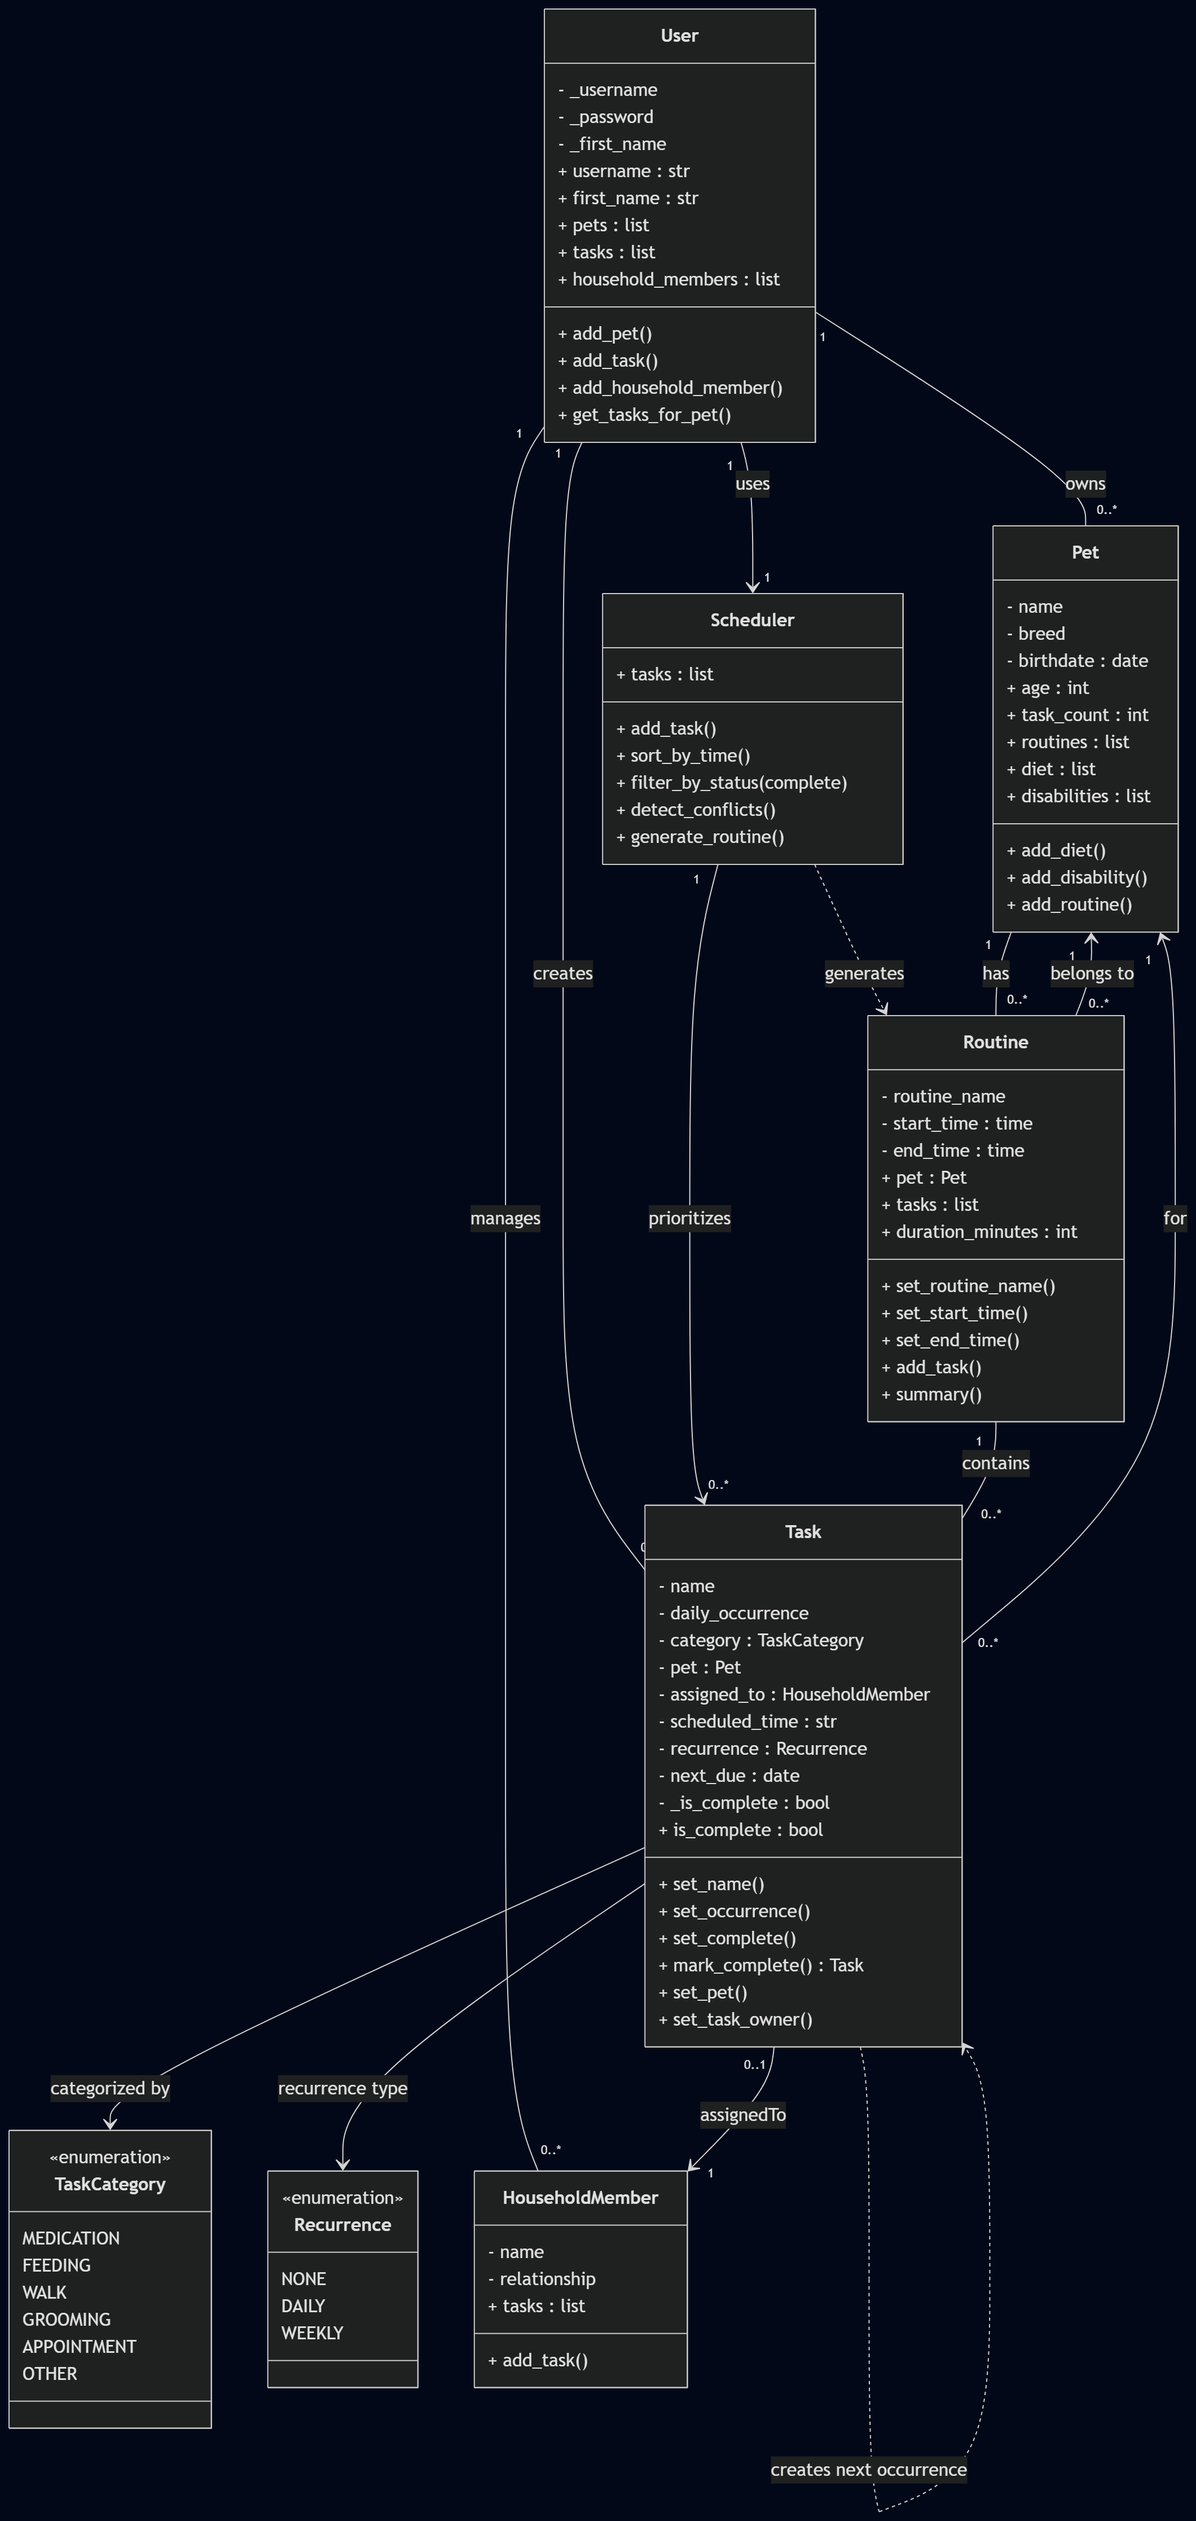
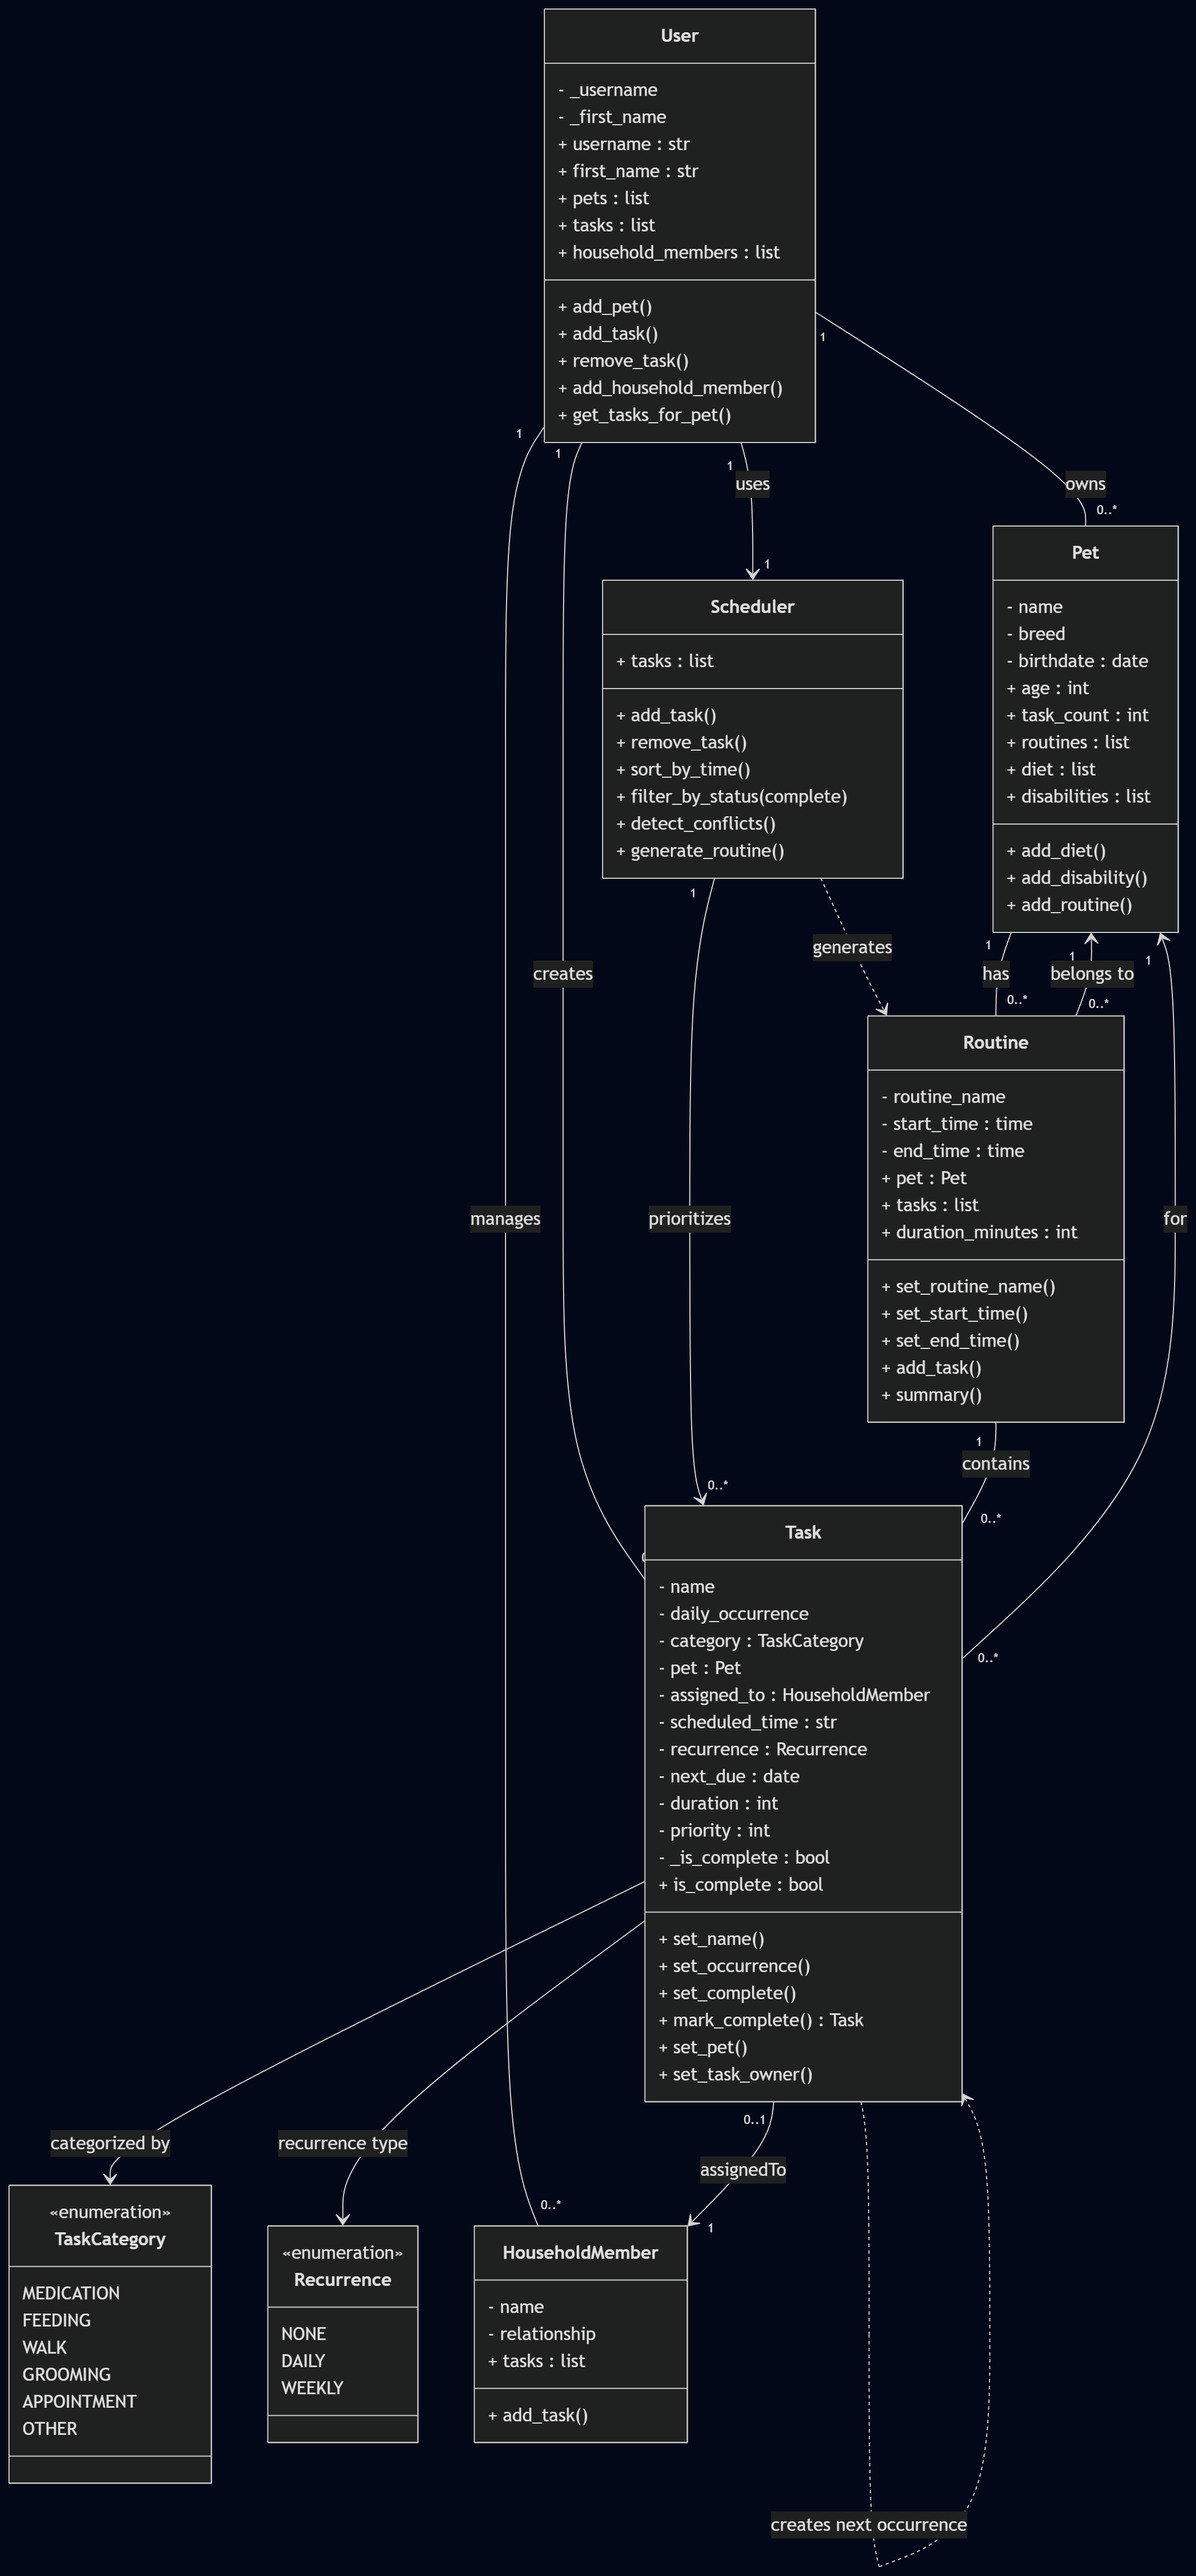
Updated uml diagram. Added demo images

diff --git a/app.py b/app.py
@@ -48,7 +48,7 @@ with st.form("owner_form"):
     username   = st.text_input("Username",   placeholder="e.g. jsmith")
     submitted  = st.form_submit_button("Create Profile")
     if submitted:
-        st.session_state.owner = User(username=username, password="", first_name=first_name)
+        st.session_state.owner = User(username=username, first_name=first_name)
         st.session_state.scheduler = Scheduler()
         st.success(f"Profile created for {first_name}.")
 
@@ -98,6 +98,8 @@ else:
         category       = st.selectbox("Category", [c.value for c in TaskCategory])
         recurrence     = st.selectbox("Recurrence", [r.value for r in Recurrence])
         scheduled_time = st.time_input("Scheduled time", value=time(8, 0))
+        duration       = st.number_input("Duration (minutes)", min_value=1, max_value=240, value=15)
+        priority       = st.number_input("Priority (1 = highest, 5 = lowest)", min_value=1, max_value=5, value=3)
         pet_names      = [p.name for p in st.session_state.owner.pets]
         selected_pet   = st.selectbox("For which pet?", pet_names)
         assignee_options = ["Owner"] + [m.name for m in st.session_state.members]
@@ -111,6 +113,8 @@ else:
                 category=TaskCategory(category),
                 recurrence=Recurrence(recurrence),
                 scheduled_time=scheduled_time.strftime("%H:%M"),
+                duration=duration,
+                priority=priority,
             )
             task.set_pet(pet, st.session_state.owner)
             if selected_assignee != "Owner":
@@ -118,6 +122,45 @@ else:
                 task.set_task_owner(member)
             st.session_state.scheduler.add_task(task)
             st.success(f"Task '{task_name}' added for {selected_pet}, assigned to {selected_assignee}.")
+
+# --- Edit a task ---
+st.subheader("Edit a Task")
+if st.session_state.owner is None or not st.session_state.owner.tasks:
+    st.info("Add a task first.")
+else:
+    task_names = [t.name for t in st.session_state.owner.tasks]
+    selected_task_name = st.selectbox("Select a task to edit", task_names, key="edit_select")
+    task_to_edit = next(t for t in st.session_state.owner.tasks if t.name == selected_task_name)
+
+    with st.form("edit_task_form"):
+        new_name       = st.text_input("Task name", value=task_to_edit.name)
+        new_occurrence = st.number_input("Times per day", min_value=1, max_value=10, value=task_to_edit.daily_occurrence)
+        new_category   = st.selectbox("Category", [c.value for c in TaskCategory], index=list(TaskCategory).index(task_to_edit.category))
+        new_recurrence = st.selectbox("Recurrence", [r.value for r in Recurrence], index=list(Recurrence).index(task_to_edit.recurrence))
+        new_duration   = st.number_input("Duration (minutes)", min_value=1, max_value=240, value=task_to_edit.duration)
+        new_priority   = st.number_input("Priority (1 = highest, 5 = lowest)", min_value=1, max_value=5, value=task_to_edit.priority)
+        submitted      = st.form_submit_button("Save Changes")
+        if submitted:
+            task_to_edit.set_name(new_name)
+            task_to_edit.set_occurrence(new_occurrence)
+            task_to_edit.category   = TaskCategory(new_category)
+            task_to_edit.recurrence = Recurrence(new_recurrence)
+            task_to_edit.duration   = new_duration
+            task_to_edit.priority   = new_priority
+            st.success(f"Task updated.")
+
+# --- Remove a task ---
+st.subheader("Remove a Task")
+if st.session_state.owner is None or not st.session_state.owner.tasks:
+    st.info("No tasks to remove.")
+else:
+    task_names = [t.name for t in st.session_state.owner.tasks]
+    selected_remove_name = st.selectbox("Select a task to remove", task_names, key="remove_select")
+    if st.button("Remove Task"):
+        task_to_remove = next(t for t in st.session_state.owner.tasks if t.name == selected_remove_name)
+        st.session_state.owner.remove_task(task_to_remove)
+        st.session_state.scheduler.remove_task(task_to_remove)
+        st.success(f"'{selected_remove_name}' removed.")
 
 st.divider()
 

diff --git a/main.py b/main.py
@@ -2,7 +2,7 @@ from datetime import date, time
 from pawpal_system import HouseholdMember, Pet, Task, TaskCategory, Recurrence, Scheduler, User
 
 # --- Setup ---
-owner = User(username="jsmith", password="secret", first_name="Jamie")
+owner = User(username="jsmith", first_name="Jamie")
 
 # --- Pets ---
 PETS_DATA = [
@@ -31,14 +31,14 @@ for member_info in MEMBERS_DATA:
 # Each entry: pet name, task name, daily_occurrence, category, assigned_to (member name or None)
 # Tasks are intentionally out of time order to verify sort_by_time() works correctly.
 TASKS_DATA = [
-    {"pet": "Luna",  "name": "Walk Luna",               "daily_occurrence": 1, "category": TaskCategory.WALK,       "assigned_to": "Alex", "scheduled_time": "17:30", "recurrence": Recurrence.DAILY},
-    {"pet": "Mochi", "name": "Brush Mochi",             "daily_occurrence": 1, "category": TaskCategory.GROOMING,   "assigned_to": "Alex", "scheduled_time": "19:00", "recurrence": Recurrence.WEEKLY},
-    {"pet": "Luna",  "name": "Feed Luna",               "daily_occurrence": 2, "category": TaskCategory.FEEDING,    "assigned_to": None,   "scheduled_time": "07:00", "recurrence": Recurrence.DAILY},
-    {"pet": "Mochi", "name": "Mochi's Eye Drops",       "daily_occurrence": 2, "category": TaskCategory.MEDICATION, "assigned_to": None,   "scheduled_time": "09:00", "recurrence": Recurrence.DAILY},
-    {"pet": "Mochi", "name": "Feed Mochi",              "daily_occurrence": 3, "category": TaskCategory.FEEDING,    "assigned_to": None,   "scheduled_time": "07:30", "recurrence": Recurrence.DAILY},
-    {"pet": "Luna",  "name": "Luna's Joint Supplement", "daily_occurrence": 1, "category": TaskCategory.MEDICATION, "assigned_to": None,   "scheduled_time": "08:00", "recurrence": Recurrence.NONE},
+    {"pet": "Luna",  "name": "Walk Luna",               "daily_occurrence": 1, "category": TaskCategory.WALK,       "assigned_to": "Alex", "scheduled_time": "17:30", "recurrence": Recurrence.DAILY,  "duration": 30, "priority": 2},
+    {"pet": "Mochi", "name": "Brush Mochi",             "daily_occurrence": 1, "category": TaskCategory.GROOMING,   "assigned_to": "Alex", "scheduled_time": "19:00", "recurrence": Recurrence.WEEKLY, "duration": 20, "priority": 4},
+    {"pet": "Luna",  "name": "Feed Luna",               "daily_occurrence": 2, "category": TaskCategory.FEEDING,    "assigned_to": None,   "scheduled_time": "07:00", "recurrence": Recurrence.DAILY,  "duration": 10, "priority": 2},
+    {"pet": "Mochi", "name": "Mochi's Eye Drops",       "daily_occurrence": 2, "category": TaskCategory.MEDICATION, "assigned_to": None,   "scheduled_time": "09:00", "recurrence": Recurrence.DAILY,  "duration": 5,  "priority": 1},
+    {"pet": "Mochi", "name": "Feed Mochi",              "daily_occurrence": 3, "category": TaskCategory.FEEDING,    "assigned_to": None,   "scheduled_time": "07:30", "recurrence": Recurrence.DAILY,  "duration": 10, "priority": 2},
+    {"pet": "Luna",  "name": "Luna's Joint Supplement", "daily_occurrence": 1, "category": TaskCategory.MEDICATION, "assigned_to": None,   "scheduled_time": "08:00", "recurrence": Recurrence.NONE,   "duration": 5,  "priority": 1},
     # Intentional conflict: same time as Mochi's Eye Drops (09:00) to test detect_conflicts()
-    {"pet": "Luna",  "name": "Luna's Morning Check",    "daily_occurrence": 1, "category": TaskCategory.OTHER,      "assigned_to": None,   "scheduled_time": "09:00", "recurrence": Recurrence.DAILY},
+    {"pet": "Luna",  "name": "Luna's Morning Check",    "daily_occurrence": 1, "category": TaskCategory.OTHER,      "assigned_to": None,   "scheduled_time": "09:00", "recurrence": Recurrence.DAILY,  "duration": 10, "priority": 5},
 ]
 
 task_objects = []
@@ -49,6 +49,8 @@ for task_info in TASKS_DATA:
         category=task_info["category"],
         scheduled_time=task_info["scheduled_time"],
         recurrence=task_info["recurrence"],
+        duration=task_info["duration"],
+        priority=task_info["priority"],
     )
     task.set_pet(pets[task_info["pet"]], owner)
     if task_info["assigned_to"]:

diff --git a/pawpal_system.py b/pawpal_system.py
@@ -53,6 +53,8 @@ class Task:
     scheduled_time: Optional[str] = None          # "HH:MM" format, e.g. "07:30"
     recurrence: Recurrence = Recurrence.NONE
     next_due: Optional[date] = None
+    duration: int = 15                            # estimated duration in minutes
+    priority: int = 3                             # 1 = highest importance, 5 = lowest
     _is_complete: bool = field(default=False, repr=False, init=False)
 
     def set_name(self, name: str) -> None:
@@ -89,6 +91,8 @@ class Task:
             scheduled_time=self.scheduled_time,
             recurrence=self.recurrence,
             next_due=next_due,
+            duration=self.duration,
+            priority=self.priority,
         )
 
     @property
@@ -246,6 +250,11 @@ class Scheduler:
         """Add a task to the scheduler's pool for routine generation."""
         self._tasks.append(task)
 
+    def remove_task(self, task: Task) -> None:
+        """Remove a task from the scheduler's pool if it exists."""
+        if task in self._tasks:
+            self._tasks.remove(task)
+
     @property
     def tasks(self) -> list[Task]:
         """Return a copy of all tasks currently in the scheduler."""
@@ -328,9 +337,8 @@ class Scheduler:
 
 
 class User:
-    def __init__(self, username: str, password: str, first_name: str):
+    def __init__(self, username: str, first_name: str):
         self._username = username
-        self._password = password
         self._first_name = first_name
         self._pets: list[Pet] = []
         self._tasks: list[Task] = []
@@ -368,6 +376,11 @@ class User:
     def add_task(self, task: Task) -> None:
         """Register a task under this user."""
         self._tasks.append(task)
+
+    def remove_task(self, task: Task) -> None:
+        """Remove a task from the user's task list if it exists."""
+        if task in self._tasks:
+            self._tasks.remove(task)
 
     def add_household_member(self, member: HouseholdMember) -> None:
         """Add a household member to this user's household."""

diff --git a/README.md b/README.md
@@ -1,46 +1,6 @@
-# PawPal+ (Module 2 Project)
+# What is PawPal+?
 
-You are building **PawPal+**, a Streamlit app that helps a pet owner plan care tasks for their pet.
-
-## Scenario
-
-A busy pet owner needs help staying consistent with pet care. They want an assistant that can:
-
-- Track pet care tasks (walks, feeding, meds, enrichment, grooming, etc.)
-- Consider constraints (time available, priority, owner preferences)
-- Produce a daily plan and explain why it chose that plan
-
-Your job is to design the system first (UML), then implement the logic in Python, then connect it to the Streamlit UI.
-
-## What you will build
-
-Your final app should:
-
-- Let a user enter basic owner + pet info
-- Let a user add/edit tasks (duration + priority at minimum)
-- Generate a daily schedule/plan based on constraints and priorities
-- Display the plan clearly (and ideally explain the reasoning)
-- Include tests for the most important scheduling behaviors
-
-## Getting started
-
-### Setup
-
-```bash
-python -m venv .venv
-source .venv/bin/activate  # Windows: .venv\Scripts\activate
-pip install -r requirements.txt
-```
-
-### Suggested workflow
-
-1. Read the scenario carefully and identify requirements and edge cases.
-2. Draft a UML diagram (classes, attributes, methods, relationships).
-3. Convert UML into Python class stubs (no logic yet).
-4. Implement scheduling logic in small increments.
-5. Add tests to verify key behaviors.
-6. Connect your logic to the Streamlit UI in `app.py`.
-7. Refine UML so it matches what you actually built.
+**PawPal+** is a Streamlit app that helps a pet owner plan care tasks for their pet, involving other caretakers in the process! Based on the provided information, a schedule will be generated. Any conflicting start times for tasks will be alerted to the owner.
 
 ## Smarter Scheduling
 
@@ -49,3 +9,79 @@ The app is able to do the following.
 2. Filter tasks into groups based on their completion status.
 3. Automate recurring tasks into a "next week schedule."
 4. Detect conflict between tasks start times.
+
+## Features List
+Owner Profile
+Set up your personal profile with a name and username to get started.
+
+Pet Management
+Add one or more pets with their name, breed, and birthdate. The app tracks each pet's age and how many tasks are assigned to them.
+
+Household Members
+Add family members or roommates who help with pet care. Each person can be assigned specific tasks and has their own task list.
+
+Task Creation
+Create care tasks for any pet with details like what type of care it is, how many times a day it needs to happen, what time it's scheduled, and who's responsible for it.
+
+Task Assignment
+Assign any task to yourself or a household member. The app remembers who is in charge by default when the task repeats.
+
+Recurring Tasks
+Mark a task as daily or weekly. When it's completed, the app automatically prepares the next occurrence with the same details — no need to re-enter anything.
+
+Daily Schedule View
+See all of today's tasks organized by time, showing who each task is assigned to, which pet it's for, and whether it's pending or done.
+
+Next Week Preview
+After completing recurring tasks, the app generates a proposed schedule for the next occurrence of each repeating task, sorted by time.
+
+Conflict Alerts
+If two tasks are scheduled at the same time, the app automatically flags it with a warning before displaying the schedule.
+
+Pending & Completed Filters
+Quickly view only what still needs to be done today, or review what has already been completed.
+
+## Demo
+<a href="/demo_images/pawpal_demo1.PNG" target="_blank"><img src='/demo_images/pawpal_demo1.PNG' title='PawPal App' width='' alt='PawPal App' class='center-block' /></a>.
+
+This is the starting screen. Go ahead and enter input for the user.
+
+<a href="/demo_images/pawpal_demo2.PNG" target="_blank"><img src='/demo_images/pawpal_demo2.PNG' title='PawPal App' width='' alt='PawPal App' class='center-block' /></a>.
+
+After entering image for the user, add pet information for each pet you have.
+This feature will become available after information about the user is provided.
+
+<a href="/demo_images/pawpal_demo3.PNG" target="_blank"><img src='/demo_images/pawpal_demo3.PNG' title='PawPal App' width='' alt='PawPal App' class='center-block' /></a>.
+
+Add additional caretakers and family members who will help take care of the pet.
+
+<a href="/demo_images/pawpal_demo4.PNG" target="_blank"><img src='/demo_images/pawpal_demo4.PNG' title='PawPal App' width='' alt='PawPal App' class='center-block' /></a>.
+
+Add tasks.
+
+<a href="/demo_images/pawpal_demo5.PNG" target="_blank"><img src='/demo_images/pawpal_demo5.PNG' title='PawPal App' width='' alt='PawPal App' class='center-block' /></a>.
+
+After adding tasks, you can use the drop down menus in the edit and remove sections to edit and remove tasks.
+
+<a href="/demo_images/pawpal_demo6.PNG" target="_blank"><img src='/demo_images/pawpal_demo6.PNG' title='PawPal App' width='' alt='PawPal App' class='center-block' /></a>.
+
+Here is where your schedule is generated. Time conflict alerts will be given here as well.
+
+## Getting started
+
+### Requirements
+
+- Python 3.10+
+- Streamlit
+
+### Install dependencies
+
+```pip install streamlit```
+
+### Run the Web App
+
+```streamlit run app.py```
+
+### Run the CLI Demo
+
+```python main.py```
